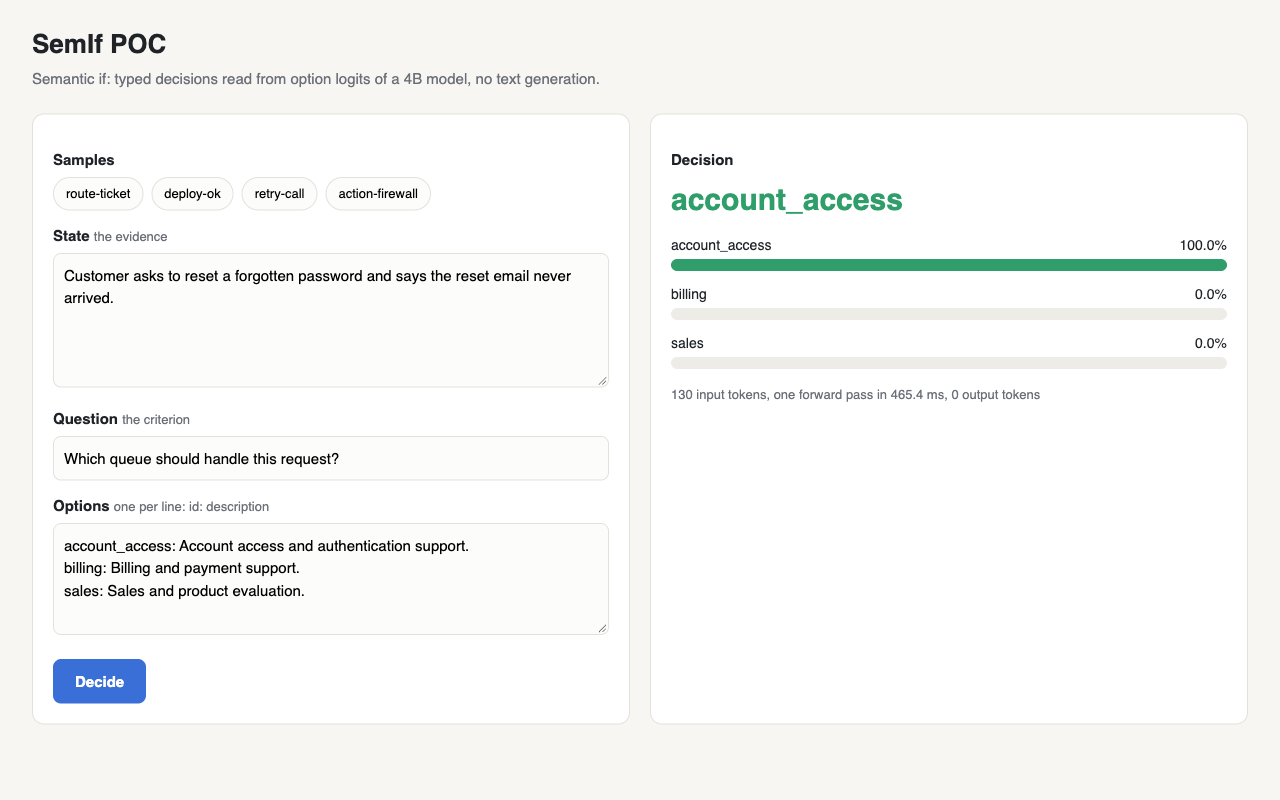
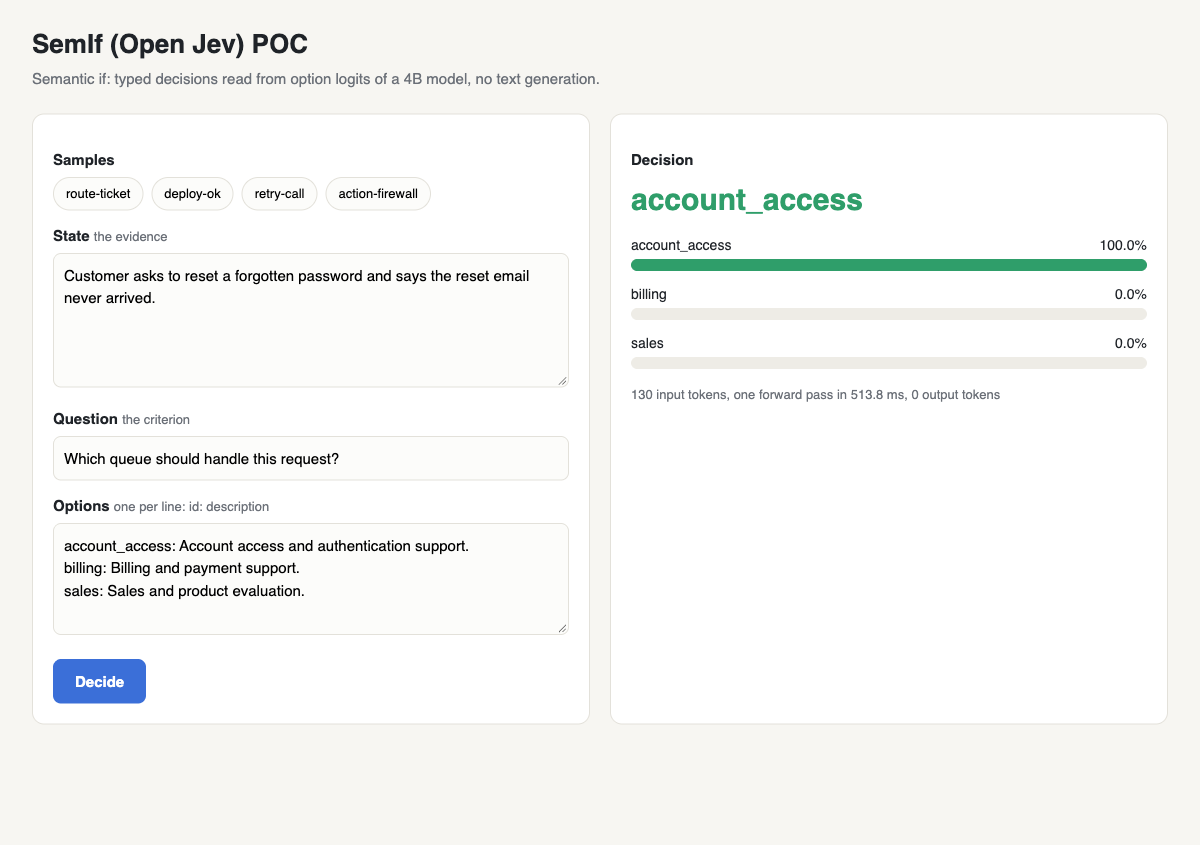
open-jev-poc: web app title SemIf (Open Jev) POC, refreshed printscreens

diff --git a/pocs/open-jev-poc/static/index.html b/pocs/open-jev-poc/static/index.html
@@ -3,7 +3,7 @@
 <head>
 <meta charset="utf-8">
 <meta name="viewport" content="width=device-width, initial-scale=1">
-<title>SemIf POC</title>
+<title>SemIf (Open Jev) POC</title>
 <style>
   :root { --bg:#f7f6f2; --card:#fff; --ink:#1f2328; --muted:#6b7078; --line:#e3e1da; --accent:#3b6fd8; --win:#2f9e6a; }
   * { box-sizing:border-box; }
@@ -35,7 +35,7 @@
 </head>
 <body>
 <header>
-  <h1>SemIf POC</h1>
+  <h1>SemIf (Open Jev) POC</h1>
   <p>Semantic if: typed decisions read from option logits of a 4B model, no text generation.</p>
 </header>
 <main>

diff --git a/pocs/open-jev-poc/README.md b/pocs/open-jev-poc/README.md
@@ -117,7 +117,7 @@ The page after loading. The first sample, `route-ticket`, is filled in. Each chi
 ### Routing a support ticket
 ![Route ticket](printscreens/02-route-ticket.png)
 
-A password reset email that never arrived goes to `account_access` with about 100%. The footer shows 130 input tokens, one forward pass in about 465 ms, and 0 output tokens.
+A password reset email that never arrived goes to `account_access` with about 100%. The footer shows 130 input tokens, one forward pass in about 514 ms, and 0 output tokens.
 
 ### Action firewall
 ![Action firewall](printscreens/03-action-firewall.png)
